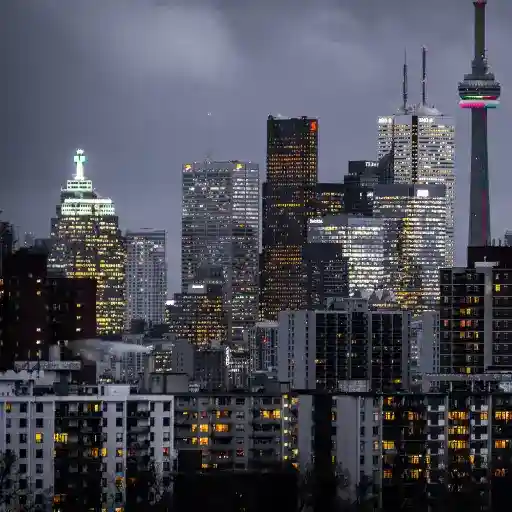
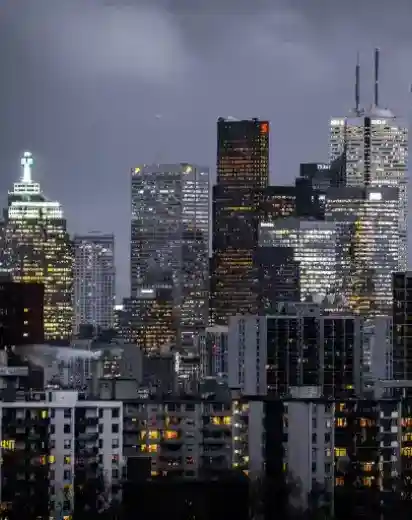
Deployment commit

diff --git a/static/css/base.css b/static/css/base.css
@@ -214,7 +214,7 @@ a.img-container:hover {
 
 .carousel-inner img {
     width: 100%;
-    height: 30em; 
+    height: 20em; 
     background: center 75% / cover no-repeat;
   }
 

diff --git a/staticfiles/css/base.css b/staticfiles/css/base.css
@@ -214,7 +214,7 @@ a.img-container:hover {
 
 .carousel-inner img {
     width: 100%;
-    height: 30em; 
+    height: 20em; 
     background: center 75% / cover no-repeat;
   }
 
